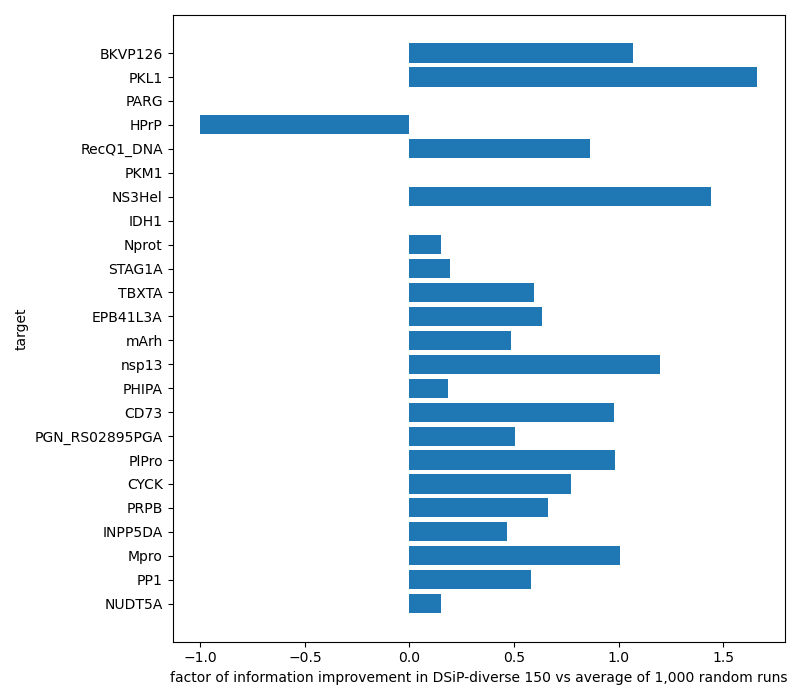
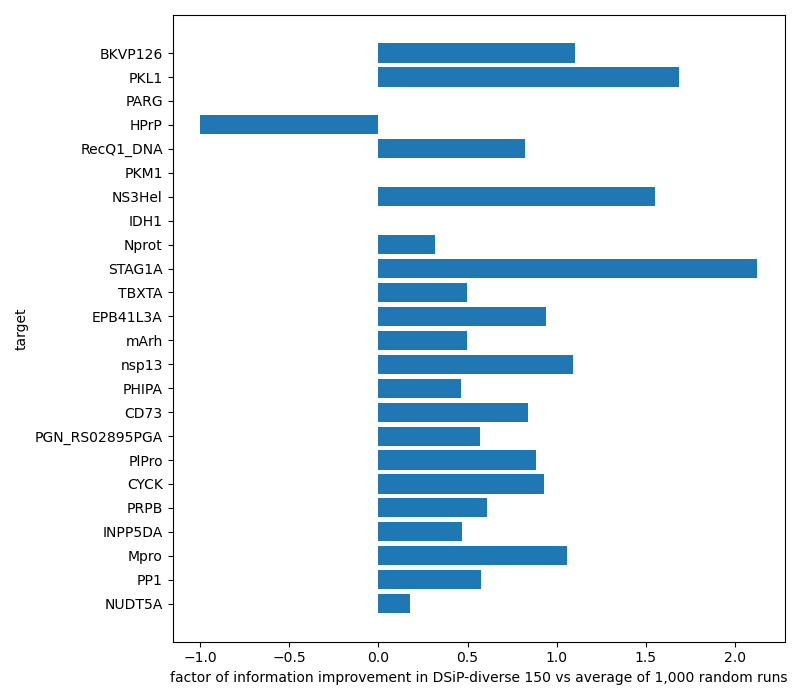
refactored

diff --git a/scripts/test_rankings.py b/scripts/test_rankings.py
@@ -24,6 +24,7 @@ def get_reduced_smiles_bits(smiles_bits, test_target):
 def get_fraction(comps, smiles_bits, target, total_information):
 
     # get the fraction of information recovered using a subset of DSiP compounds
+    # returns list of fractional information
 
     target_fraction = [0]
     current_info = []
@@ -39,6 +40,76 @@ def get_fraction(comps, smiles_bits, target, total_information):
     return target_fraction
 
 
+def ignore_targets(smiles_bits, target_tests, remove_less_than):
+
+    smol = []
+    for t in smiles_bits:
+
+        if t in target_tests and target_tests[t] < remove_less_than:
+            smol.append(t)
+        elif t not in target_tests:
+            smol.append(t)
+
+    for t in smol:
+        del smiles_bits[t]
+
+    return smiles_bits
+
+
+def get_total_information(smiles_bits, target):
+
+    total_information = []
+    for c in smiles_bits[target]:
+        total_information += smiles_bits[target][c]
+    total_information = len(set(total_information))
+    return total_information
+
+
+def multiple_random_runs(all_smiles, smiles_bits, test_target, total_information, lib_size=150, num_runs=1000):
+
+    random_fractions_target = [0] * lib_size
+    for i in range(num_runs):
+        random.shuffle(all_smiles)
+        random_run = get_fraction(all_smiles[:lib_size], smiles_bits, test_target, total_information)
+        for l in range(lib_size):
+            random_fractions_target[l] += random_run[l]
+    random_fractions_target = [f/num_runs for f in random_fractions_target]
+    random_fractions_target += [0]
+    random_fractions_target = sorted(random_fractions_target)
+
+    return random_fractions_target
+
+
+def plot_target_fraction(target, fraction):
+
+    plt.plot(range(len(fraction)), fraction, label=target)
+    plt.xlabel('library size')
+    plt.ylabel('information recovered')
+    plt.ylim(0,1)
+    plt.tight_layout()
+    plt.savefig('figures/fraction_test.png')
+
+
+def target_improvement(target_fraction, random_fractions_target):
+
+    assert len(target_fraction) == len(random_fractions_target)
+
+    if random_fractions_target[-1] > 0:
+        imp = (target_fraction[-1]-random_fractions_target[-1])/random_fractions_target[-1]
+    else:
+        imp = 0
+    
+    return imp
+
+
+def mean_across_targets(fraction):
+
+    mean_fractions = []
+    fraction_lengths = [len(i) for i in fractions]
+    for i in range(min(fraction_lengths)):
+        mean_fractions.append(sum([x[i] for x in fractions])/len(fractions))
+    
+    return mean_fractions
 
 
 smiles_bits = json.load(open('data/datafiles/smiles_bits.json', 'r'))
@@ -46,21 +117,7 @@ frequent_comps = json.load(open('data/datafiles/frequently_tested_compounds.json
 target_tests = json.load(open('data/datafiles/target_test_numbers.json', 'r'))
 lib_size = 150
 
-smol = []
-print(target_tests)
-for t in smiles_bits:
-    if t in target_tests:
-        print(t, target_tests[t])
-    if t in target_tests and target_tests[t] < 250:
-        smol.append(t)
-    elif t not in target_tests:
-        smol.append(t)
-
-for t in smol:
-    del smiles_bits[t]
-
-# DSiP_smiles = all_smiles + ['C'] * 450
-# random.shuffle(DSiP_smiles)
+smiles_bits = ignore_targets(smiles_bits, target_tests, 250)
 
 plt.figure(figsize=(12, 5))
 plt.subplot(121)
@@ -68,61 +125,44 @@ plt.subplot(121)
 fractions = []
 random_fractions = []
 comps_lists = []
+improvement = []
 
-mean_random_fractions_250 = []
-print(len(smiles_bits))
 for test_target in smiles_bits:
 
+    # get all results except target being tested
     smiles_bits_reduced = get_reduced_smiles_bits(smiles_bits, test_target)
     all_smiles = [i for i in get_all_smiles(smiles_bits_reduced) if i in frequent_comps]
+
+    # rank compounds based on past results
     comps, x = rank(smiles_bits_reduced, all_smiles, lib_size)
     comps_lists += comps
 
+    # calculate total information from test target from full library
+    total_information = get_total_information(smiles_bits, test_target)
 
-    total_information = []
-    for c in smiles_bits[test_target]:
-        total_information += smiles_bits[test_target][c]
-    total_information = len(set(total_information))
-
+    # get list of fraction of information recovered at each library size (ranked library)
     target_fraction = get_fraction(comps, smiles_bits, test_target, total_information)
     fractions.append(target_fraction)
 
-    add_for_DSiP = 459 - len(all_smiles)
+    # add in dummy compounds for those we have never seen bind and shuffle new (larger) library
+    add_for_DSiP = len(frequent_comps) - len(all_smiles)
     all_smiles += ['C'] * add_for_DSiP
     random.shuffle(all_smiles)
 
-    random_fraction = get_fraction(all_smiles[:lib_size], smiles_bits, test_target, total_information)
-    random_fractions.append(random_fraction)
+    # get list of fraction of information recovered at each library size (random library)
+    random_fractions_target = multiple_random_runs(all_smiles, smiles_bits, test_target, total_information, num_runs=1000)
+    random_fractions.append(random_fractions_target)
 
-    random_fractions_250 = []
-    for i in range(1000):
-        random.shuffle(all_smiles)
-        random_fractions_250.append(get_fraction(all_smiles[:lib_size], smiles_bits, test_target, total_information)[-1])
-    mean_random_fractions_250.append(sum(random_fractions_250)/1000)
+    # print and save improvement in information recovered from random and ranked sub-libaries
+    print(test_target, len(comps), len(smiles_bits[test_target]), target_fraction[-1], random_fractions_target[-1])
+    improvement.append(target_improvement(target_fraction, random_fractions_target))
+
+    # plot information recovery as library size increases 
+    plot_target_fraction(test_target, target_fraction)
 
 
-
-
-    print(test_target, len(comps), len(smiles_bits[test_target]), target_fraction[-1])
-    plt.plot(range(len(target_fraction)), target_fraction, label=test_target)
-
-    plt.xlabel('library size')
-    plt.ylabel('information recovered')
-    plt.ylim(0,1)
-    plt.tight_layout()
-    plt.savefig('figures/fraction_test.png')
-    
-
-mean_fractions = []
-fraction_lengths = [len(i) for i in fractions]
-for i in range(min(fraction_lengths)):
-    mean_fractions.append(sum([x[i] for x in fractions])/len(fractions))
-
-mean_random_fractions = []
-random_fraction_lengths = [len(i) for i in random_fractions]
-for i in range(min(random_fraction_lengths)):
-    mean_random_fractions.append(sum([x[i] for x in random_fractions])/len(random_fractions))
-
+mean_fractions = mean_across_targets(fractions)
+mean_random_fractions = mean_across_targets(random_fractions)
 
 plt.subplot(122)
 plt.plot(range(len(mean_fractions)), mean_fractions, label='using ranked compounds')
@@ -144,22 +184,11 @@ plt.xlabel(f'number of times fragments in top {lib_size}')
 plt.tight_layout()
 plt.savefig('figures/compound_counts.png')
 
-max_possible_improvement = []
-improvement = []
-for i in range(len(fractions)):
-    try:
-        improvement.append((fractions[i][lib_size]-mean_random_fractions_250[i])/mean_random_fractions_250[i])
-        max_possible_improvement.append((1-mean_random_fractions_250[i])/mean_random_fractions_250[i])
-    except:
-        improvement.append(0)
-
 
 plt.close()
 plt.figure(figsize=(8, 7))
-# plt.barh([t for t in smiles_bits], [improvement[i]/max_possible_improvement[i] for i in range(len(improvement))])
 plt.barh([t for t in smiles_bits], improvement)
 plt.xlabel(f'factor of information improvement in DSiP-diverse {lib_size} vs average of 1,000 random runs')
 plt.ylabel('target')
-# plt.xlim(-2, 7)
 plt.tight_layout()
 plt.savefig('figures/improvement_by_target.png')

diff --git a/scripts/rank_compounds.py b/scripts/rank_compounds.py
@@ -122,41 +122,41 @@ def rank(smiles_bits, all_smiles, length):
     return comps, fraction
 
 
+if __name__ == '__main__':
+    smiles_bits = json.load(open('data/datafiles/smiles_bits.json', 'r'))
+    all_smiles = get_all_smiles(smiles_bits)
+    DSiP_smiles = all_smiles + ['C'] * 450
+    random.shuffle(DSiP_smiles)
 
-smiles_bits = json.load(open('data/datafiles/smiles_bits.json', 'r'))
-all_smiles = get_all_smiles(smiles_bits)
-DSiP_smiles = all_smiles + ['C'] * 450
-random.shuffle(DSiP_smiles)
+    comps, fraction = rank(smiles_bits, all_smiles, len(DSiP_smiles))
 
-comps, fraction = rank(smiles_bits, all_smiles, len(DSiP_smiles))
+    json.dump(comps, open('data/outputs/ranked_compounds.json', 'w'))
 
-json.dump(comps, open('data/outputs/ranked_compounds.json', 'w'))
+    random_full_fraction = get_random_fraction(DSiP_smiles, smiles_bits)
+    random_smaller_fraction = get_random_fraction(all_smiles, smiles_bits)
+    does_order_matter = get_random_fraction(comps, smiles_bits)
 
-random_full_fraction = get_random_fraction(DSiP_smiles, smiles_bits)
-random_smaller_fraction = get_random_fraction(all_smiles, smiles_bits)
-does_order_matter = get_random_fraction(comps, smiles_bits)
-
-fraction  = [i/max(fraction) for i in fraction]
-random_full_fraction = [i/max(random_full_fraction) for i in random_full_fraction]
-random_smaller_fraction = [i/max(random_smaller_fraction) for i in random_smaller_fraction]
-does_order_matter = [i/max(does_order_matter) for i in does_order_matter]
-
-
-print(len(fraction), len(random_full_fraction), len(random_smaller_fraction))
-plt.close()
-plt.figure(figsize=(8,5))
-plt.plot(range(len(DSiP_smiles)+1), fraction, label='one at a time, taking best fragment')
-plt.plot(range(len(DSiP_smiles)+1), random_full_fraction, label='random order')
-plt.plot(range(len(all_smiles)+1), random_smaller_fraction, label="random order with only compounds weve seen bind")
-# plt.plot(range(len(comps)+1), does_order_matter, label='random order with only compounds weve seen bind')
-plt.legend()
-plt.xlabel('library size')
-plt.ylabel('information recovered')
-plt.tight_layout()
-plt.savefig('figures/fraction.png')
+    fraction  = [i/max(fraction) for i in fraction]
+    random_full_fraction = [i/max(random_full_fraction) for i in random_full_fraction]
+    random_smaller_fraction = [i/max(random_smaller_fraction) for i in random_smaller_fraction]
+    does_order_matter = [i/max(does_order_matter) for i in does_order_matter]
 
 
-plt.close()
+    print(len(fraction), len(random_full_fraction), len(random_smaller_fraction))
+    plt.close()
+    plt.figure(figsize=(8,5))
+    plt.plot(range(len(DSiP_smiles)+1), fraction, label='one at a time, taking best fragment')
+    plt.plot(range(len(DSiP_smiles)+1), random_full_fraction, label='random order')
+    plt.plot(range(len(all_smiles)+1), random_smaller_fraction, label="random order with only compounds weve seen bind")
+    # plt.plot(range(len(comps)+1), does_order_matter, label='random order with only compounds weve seen bind')
+    plt.legend()
+    plt.xlabel('library size')
+    plt.ylabel('information recovered')
+    plt.tight_layout()
+    plt.savefig('figures/fraction.png')
 
-print(len([i for i in all_smiles if i not in DSiP_smiles]))
-print(len(all_smiles))
+
+    plt.close()
+
+    print(len([i for i in all_smiles if i not in DSiP_smiles]))
+    print(len(all_smiles))
